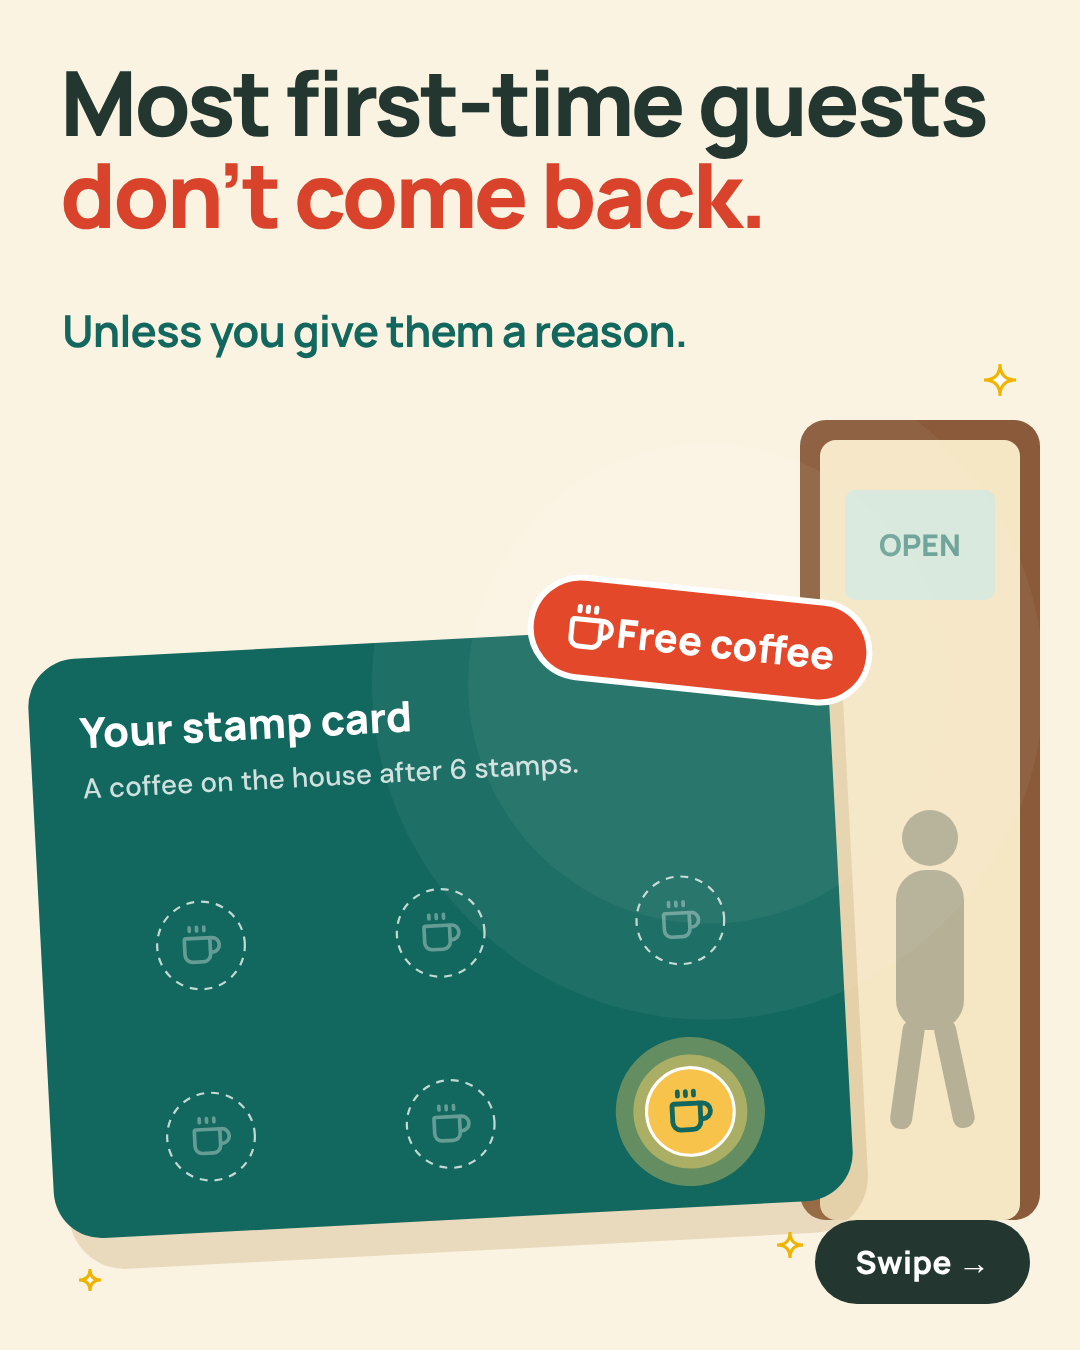
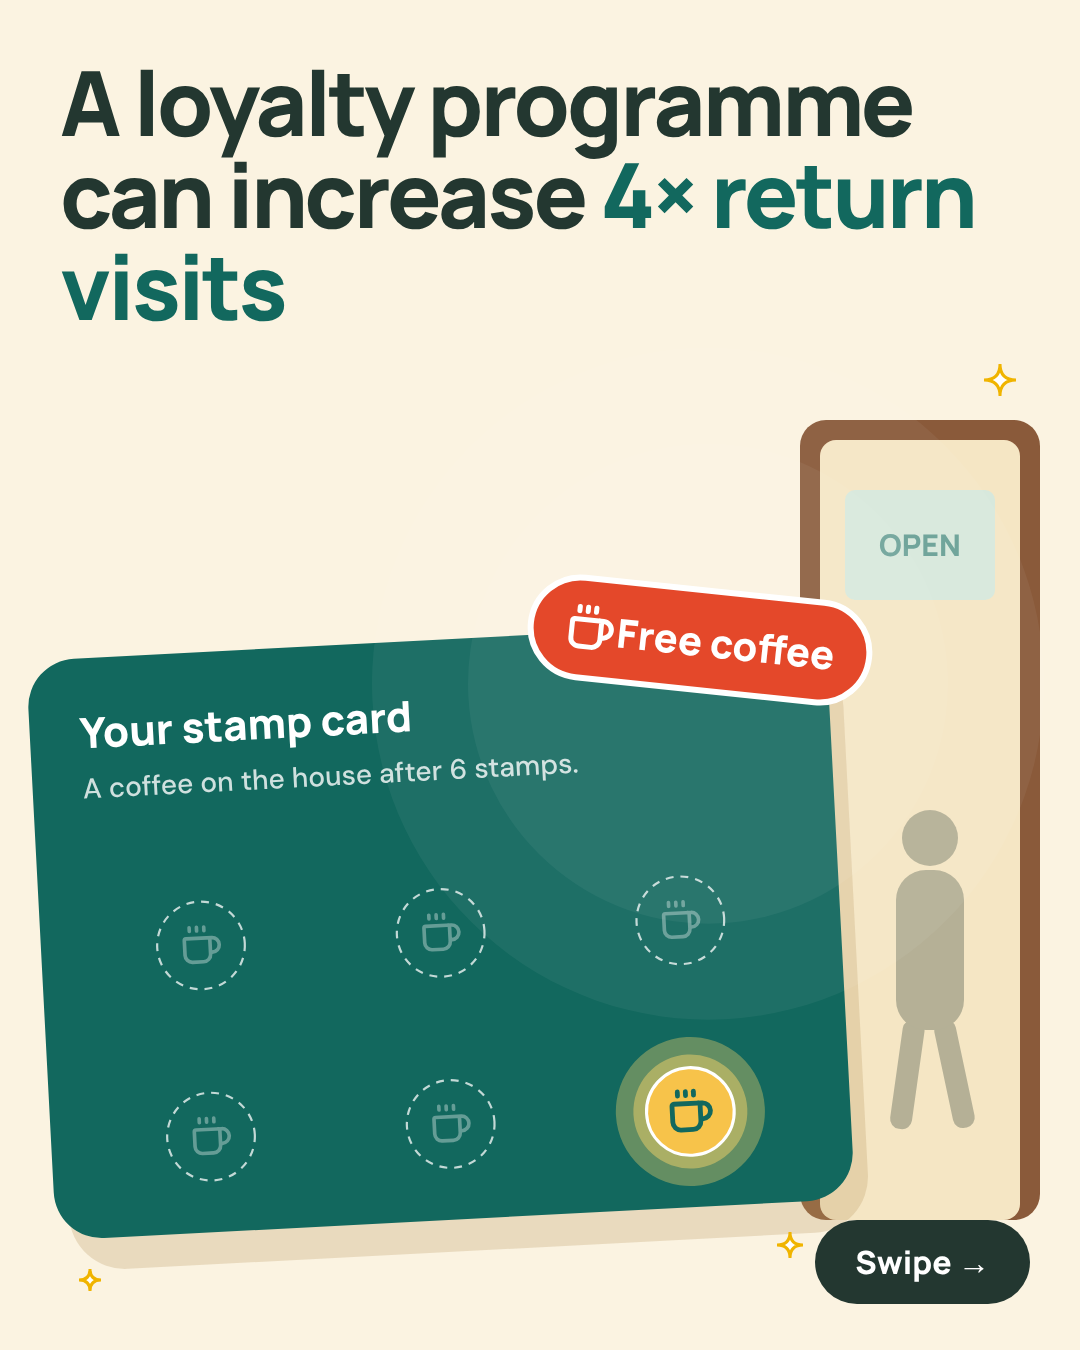
Slide 1 headline: A loyalty programme can increase 4x return visits
Claude-Session: https://claude.ai/code/session_01765UJcZ9RwUQSuEAPvDGN4

Changed region(s): [[0.0611, 0.0311, 0.9167, 0.28]]

diff --git a/carousel4/slides.html b/carousel4/slides.html
@@ -14,8 +14,7 @@ svg.a{position:absolute;left:0;top:0}
 .card{position:absolute;background:#fff;border:2px solid var(--line);border-radius:32px;box-shadow:0 10px 0 #EFE3C8}
 </style></head><body>
 <div class="s" id="s1"><svg class="a" id="a1" width="1080" height="1350"></svg>
- <div class="h" style="top:56px;font-size:90px">Most first-time guests <span style="color:var(--tom)">don’t come back.</span></div>
- <div style="position:absolute;left:62px;top:300px;font:700 44px Manrope;letter-spacing:-1px;color:var(--green)">Unless you give them a reason.</div>
+ <div class="h" style="top:56px;font-size:90px">A loyalty programme can increase <span style="color:var(--green)">4× return visits</span></div>
  <div class="pill" style="right:50px;bottom:46px;background:var(--ink);color:#fff;padding:20px 40px">Swipe →</div></div>
 
 <div class="s" id="s2"><div class="tag"><i class="lg"></i>TABLEMATE</div>
